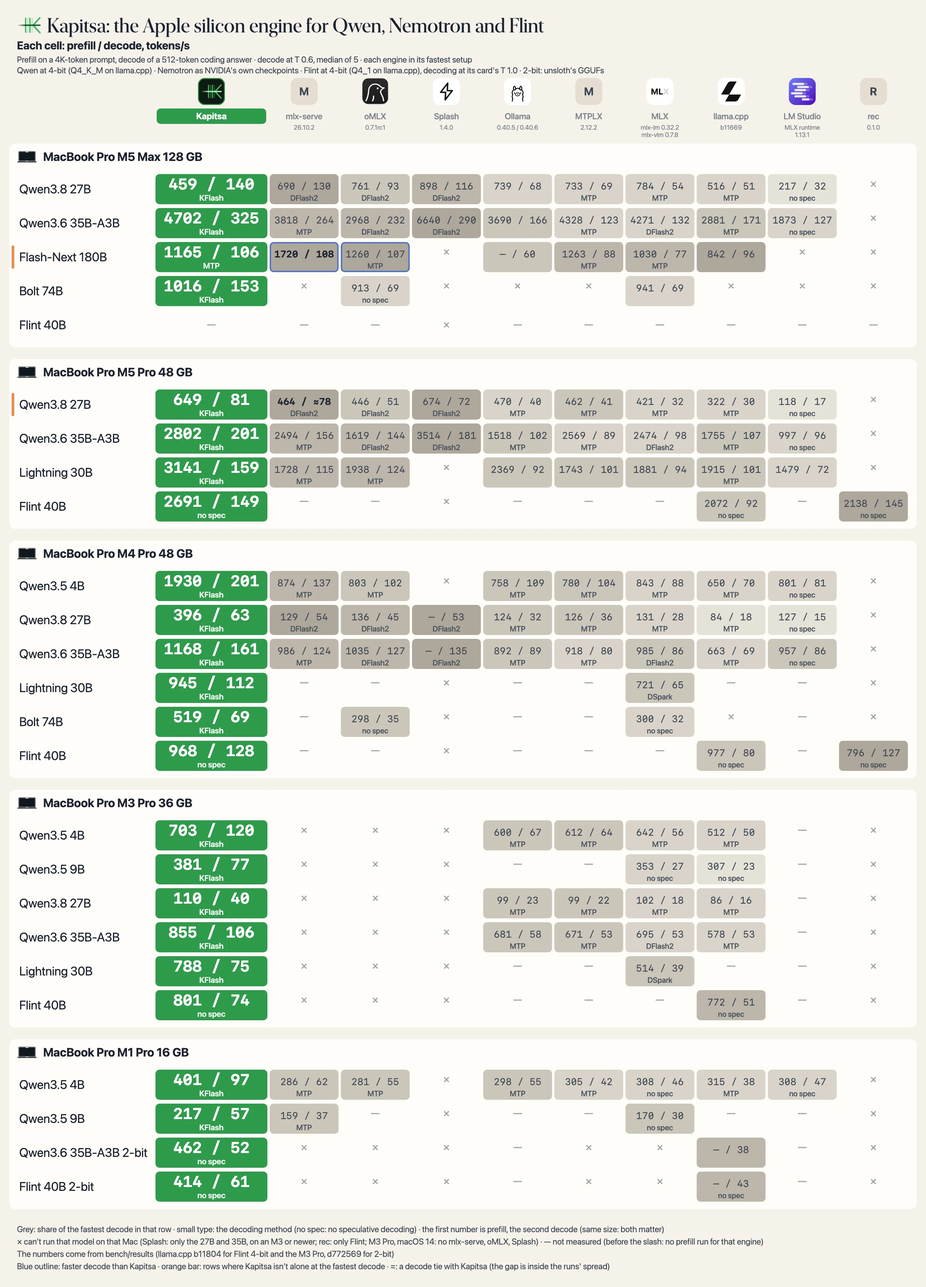
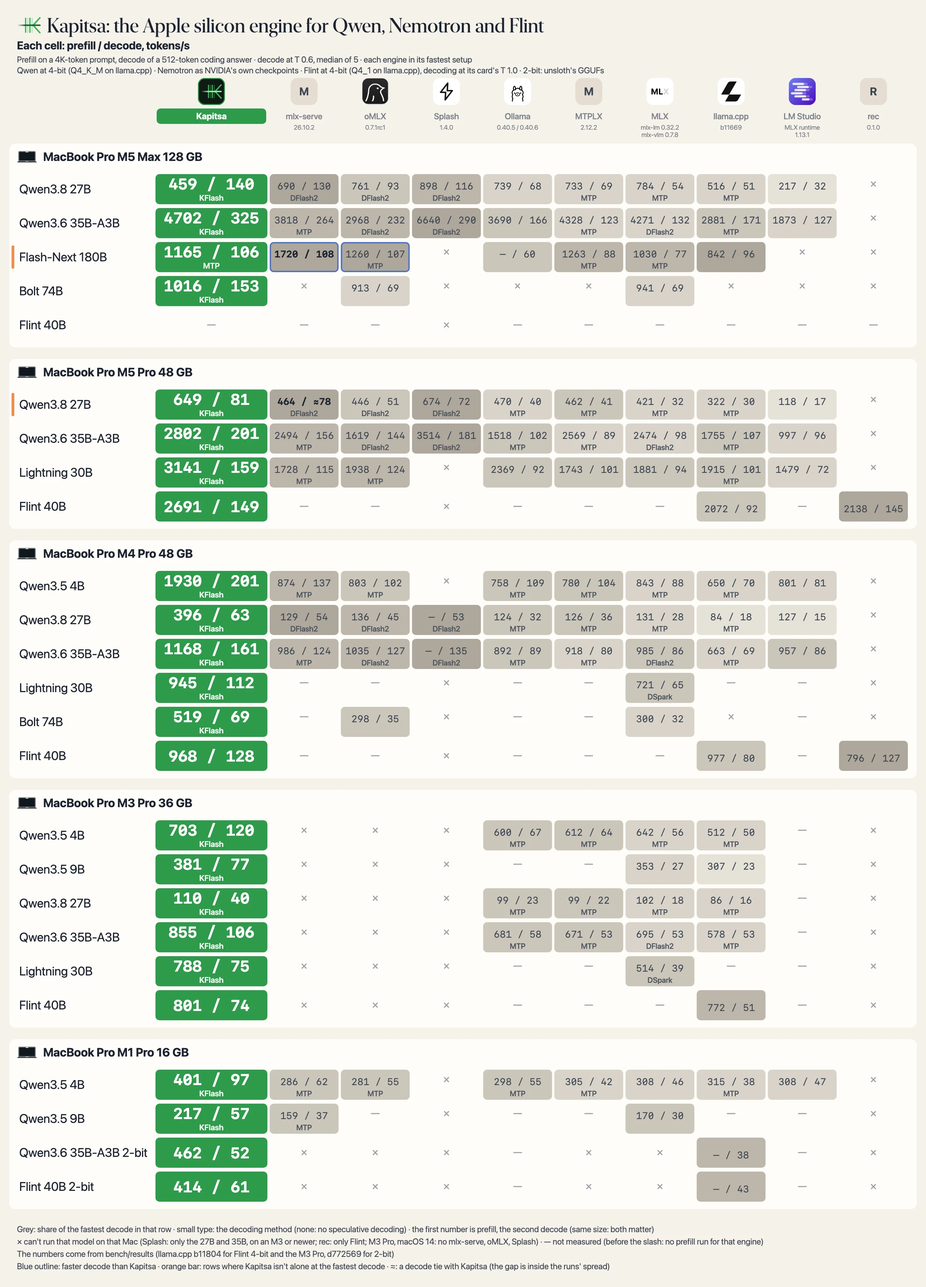
README: no multipliers in What's new (Flint: Kapitsa reads prompts faster than rec and decodes faster than llama.cpp) and no "no spec" label on the poster and tables (#382)
* README What's new: Flint bullet without multipliers, only the wins every stored run backs

* README: no multipliers in What's new (16 GB Flint: 61 vs llama.cpp's 43 tok/s); poster and tables draw no method label for plain decoding ("no spec"), on every engine

* README What's new: scope the M5 Pro Flint prefill claim to #345's two runs (earlier builds read slower; both flagged)

diff --git a/tools/readme_images/readme_images.py b/tools/readme_images/readme_images.py
@@ -30,14 +30,19 @@ def fmt(v):
     return str(round(v)) if isinstance(v, (int, float)) else DASH
 
 
+NO_SPEC = "no spec"        # the record's method for plain decoding: shown as no label at all, on every engine
+
+
 def cell(row, engine):
-    """(value, method, raw) of one cell: value is a number, None (a dash) or "x" (can't run)"""
+    """(value, method, raw) of one cell: value is a number, None (a dash) or "x" (can't run); method is None for plain
+    decoding (no speculative decoding), so a label only ever names a real method"""
     c = row["cells"].get(engine)
     if c is None or c == "x":
         return c, None, c
     if isinstance(c, (int, float)):
         return c, None, c
-    return c.get("value"), c.get("method"), c
+    m = c.get("method")
+    return c.get("value"), None if m == NO_SPEC else m, c
 
 
 def is_num(v):
@@ -142,7 +147,7 @@ def tables(data):
     (tables.families) that has a row on that Mac, under the family's name when there are two or more"""
     T = data["tables"]
     out = [LEGEND + " (a lone number is decode: no prefill run) · 🟩 fastest decode · ≈ a decode tie with Kapitsa · "
-           "small type: the decoding method · × can't run on that Mac · — not measured</sub>"]
+           "small type: the decoding method (none: no speculative decoding) · × can't run on that Mac · — not measured</sub>"]
     for tmac in T["macs"]:
         rows = table_rows(data, tmac)
         groups = [(f["name"], [r for r in rows if r["model"] in f["models"]]) for f in T["families"]]

diff --git a/README.md b/README.md
@@ -10,8 +10,8 @@ Kapitsa is an inference engine for Apple silicon that runs Qwen, Nemotron and Re
 
 ## 🔥 What's new
 
-- [2026/10] 🪶 **Flint on a 16 GB Mac: 1.4× llama.cpp's decode on the same 2-bit GGUF.** `--model flint` takes unsloth's 2-bit GGUF on 16-24 GB Macs: its routed experts run as stored, the rest requantized to 3-6 bits. 61 tok/s decode on an M1 Pro, in 11.6 GB ([numbers](docs/benchmarks.md#recursive-flint-40b-a25b-with-2-bit-experts-m1-pro-16-gb-2026-10-22)).
-- [2026/10] 🪨 **Recursive's Flint 40B-A2.5B: on the M4 Pro, 1.1-1.2× the prompt speed of Recursive's own engine.** Decode is level with it on short prompts and pulls ahead as the context grows, to 1.3× at 128K tokens, and 1.6-1.9× llama.cpp's ([numbers](docs/benchmarks.md#recursive-flint-40b-a25b-m4-pro-2026-10-22)).
+- [2026/10] 🪶 **Flint on a 16 GB Mac: decodes at 61 tok/s vs llama.cpp's 43 on the same 2-bit GGUF.** `--model flint` takes unsloth's 2-bit GGUF on 16-24 GB Macs: its routed experts run as stored, the rest requantized to 3-6 bits. 61 tok/s decode on an M1 Pro, in 11.6 GB ([numbers](docs/benchmarks.md#recursive-flint-40b-a25b-with-2-bit-experts-m1-pro-16-gb-2026-10-22)).
+- [2026/10] 🪨 **Recursive's Flint 40B-A2.5B: Kapitsa reads prompts faster than Recursive's own engine and decodes faster than llama.cpp.** On the M4 Pro every Kapitsa run read 4K and 16K prompts faster than every run of rec 0.1.0. On the M5 Pro, since Flint's attention moved to the tensor units (#345), both runs read 4K and 16K prompts faster than rec's and llama.cpp's; earlier builds read slower, and both runs carry harness flags. On both Macs every Kapitsa run decodes faster than llama.cpp ([M4 Pro](docs/benchmarks.md#recursive-flint-40b-a25b-m4-pro-2026-10-22), [M5 Pro](docs/benchmarks.md#recursive-flint-40b-a25b-m5-pro-2026-10-22)).
 - [2026/10] 🚀 **KFlash: tree speculative decoding, up to 3.5× llama.cpp and 2.2× oMLX.** One verify pass checks a whole tree of the drafter's guesses ([how it works](docs/kflash.md)).
 - [2026/10] 🏆 **Kapitsa: the fastest decode in 32 of 36 model and Mac pairs** against nine engines, up to 2.9× MLX ([poster](#benchmarks)).
 - [2026/10] 🤝 **KFlash budget: subagents decode together.** Three requests at once share one verify pass, up to **+23% total throughput** on the 27B.
@@ -71,19 +71,19 @@ The poster's numbers, and the models it leaves out, are in each Mac's table unde
 
 The catalog models measured on each Mac, against the engines that run them: one collapsed section per Mac, with a table for each model family. Decode is a 512-token coding answer at T 0.6 (Flint at its card's T 1.0), prefill a 4K-token prompt. Under each model's name are the weights Kapitsa ran; the other engines' weights and how each number was measured are in [docs/benchmarks.md](docs/benchmarks.md#the-readmes-tables).
 
-<sub>Each cell: prefill / decode, tokens/s (a lone number is decode: no prefill run) · 🟩 fastest decode · ≈ a decode tie with Kapitsa · small type: the decoding method · × can't run on that Mac · — not measured</sub>
+<sub>Each cell: prefill / decode, tokens/s (a lone number is decode: no prefill run) · 🟩 fastest decode · ≈ a decode tie with Kapitsa · small type: the decoding method (none: no speculative decoding) · × can't run on that Mac · — not measured</sub>
 
 <details>
 <summary><b>MacBook Pro (16-inch, 2026) · M5 Max · 128 GB</b> · 7 models</summary>
 
 | Model | <mark>**Kapitsa**</mark> | <sub>mlx‑serve<br>26.10.2</sub> | <sub>oMLX<br>0.7.1rc1</sub> | <sub>Splash<br>1.4.0</sub> | <sub>Ollama<br>0.40.5 / 0.40.6</sub> | <sub>MTPLX<br>2.12.2</sub> | <sub>MLX<br>mlx-lm 0.32.2, mlx-vlm 0.7.8</sub> | <sub>llama.cpp<br>b11669</sub> | <sub>LM&nbsp;Studio<br>MLX runtime 1.13.1, llama.cpp runtime 2.60.0</sub> |
 | --- | ---: | ---: | ---: | ---: | ---: | ---: | ---: | ---: | ---: |
-| **Qwen3.8-27B** · `27b`<br><sub>dense · 4-bit, 20.2 GB</sub> | 🟩 459 / **140**<br><sub>KFlash</sub> | 690 / 130<br><sub>DFlash2</sub> | 761 / 93<br><sub>DFlash2</sub> | 898 / 116<br><sub>DFlash2</sub> | 739 / 68 | 733 / 69<br><sub>MTP</sub> | 784 / 54<br><sub>MTP</sub> | 516 / 51<br><sub>MTP</sub> | 217 / 32<br><sub>no spec</sub> |
-| **Qwen3.6-35B-A3B** · `35b`<br><sub>MoE, 3B active · 4-bit, 22.1 GB</sub> | 🟩 4702 / **325**<br><sub>KFlash</sub> | 3818 / 264<br><sub>MTP</sub> | 2968 / 232<br><sub>DFlash2</sub> | 6640 / 290<br><sub>DFlash2</sub> | 3690 / 166 | 4328 / 123<br><sub>MTP</sub> | 4271 / 132<br><sub>DFlash2</sub> | 2881 / 171<br><sub>MTP</sub> | 1873 / 127<br><sub>no spec</sub> |
+| **Qwen3.8-27B** · `27b`<br><sub>dense · 4-bit, 20.2 GB</sub> | 🟩 459 / **140**<br><sub>KFlash</sub> | 690 / 130<br><sub>DFlash2</sub> | 761 / 93<br><sub>DFlash2</sub> | 898 / 116<br><sub>DFlash2</sub> | 739 / 68 | 733 / 69<br><sub>MTP</sub> | 784 / 54<br><sub>MTP</sub> | 516 / 51<br><sub>MTP</sub> | 217 / 32 |
+| **Qwen3.6-35B-A3B** · `35b`<br><sub>MoE, 3B active · 4-bit, 22.1 GB</sub> | 🟩 4702 / **325**<br><sub>KFlash</sub> | 3818 / 264<br><sub>MTP</sub> | 2968 / 232<br><sub>DFlash2</sub> | 6640 / 290<br><sub>DFlash2</sub> | 3690 / 166 | 4328 / 123<br><sub>MTP</sub> | 4271 / 132<br><sub>DFlash2</sub> | 2881 / 171<br><sub>MTP</sub> | 1873 / 127 |
 | **Qwen3.8-Flash-Next 180B-A7B** · `flash-next`<br><sub>MoE, 7B active · 4-bit, 105.9 GB</sub> | 1165 / 106<br><sub>MTP</sub> | 🟩 1720 / **108** | 1260 / 107<br><sub>MTP</sub> | × | 60 | 1263 / 88<br><sub>MTP</sub> | 1030 / 77<br><sub>MTP</sub> | 842 / 96 | × |
 | **Nemotron Dory1.0 4B** · `dory`<br><sub>looped dense · NVFP4, 3.2 GB</sub> | 🟩 **119**<br><sub>loops</sub> | × | × | × | × | × | 76 | 9 | × |
 | **Nemotron 3.5 Lightning 30B-A3B** · `lightning`<br><sub>hybrid MoE, 3B active · NVFP4, 22.9 GB</sub> | 🟩 **267**<br><sub>KFlash</sub> | 190 | 190 | × | 153 | 131 | 139 | 159 | 110 |
-| **Nemotron 3.5 Bolt 74B-A9B** · `bolt`<br><sub>hybrid MoE, 9B active · 2/4/8-bit mix, 25.1 GB</sub> | 🟩 1016 / **153**<br><sub>KFlash</sub> | × | 913 / 69<br><sub>no spec</sub> | × | × | × | 941 / 69 | × | × |
+| **Nemotron 3.5 Bolt 74B-A9B** · `bolt`<br><sub>hybrid MoE, 9B active · 2/4/8-bit mix, 25.1 GB</sub> | 🟩 1016 / **153**<br><sub>KFlash</sub> | × | 913 / 69 | × | × | × | 941 / 69 | × | × |
 | **Nemotron 3.5 Super-VL 120B-A12B** · `super`<br><sub>hybrid MoE, 12B active · NVFP4, 76.4 GB</sub> | 🟩 **94**<br><sub>KFlash</sub> | × | 52 | × | 64 | 44 | 46 | 66 | 61 |
 
 </details>
@@ -95,17 +95,17 @@ The catalog models measured on each Mac, against the engines that run them: one 
 
 | Model | <mark>**Kapitsa**</mark> | <sub>mlx‑serve<br>26.10.2</sub> | <sub>oMLX<br>0.7.1rc1</sub> | <sub>Splash<br>1.4.0</sub> | <sub>Ollama<br>0.40.5 / 0.40.6</sub> | <sub>MTPLX<br>2.12.2</sub> | <sub>MLX<br>mlx-lm 0.32.2, mlx-vlm 0.7.8</sub> | <sub>llama.cpp<br>b11669</sub> | <sub>LM&nbsp;Studio<br>MLX runtime 1.13.1, llama.cpp runtime 2.60.0</sub> |
 | --- | ---: | ---: | ---: | ---: | ---: | ---: | ---: | ---: | ---: |
-| **Qwen3.8-27B** · `27b`<br><sub>dense · 4-bit, 20.2 GB</sub> | 🟩 649 / **81**<br><sub>KFlash</sub> | 464 / **≈78**<br><sub>DFlash2</sub> | 446 / 51<br><sub>DFlash2</sub> | 674 / 72<br><sub>DFlash2</sub> | 470 / 40<br><sub>MTP</sub> | 462 / 41<br><sub>MTP</sub> | 421 / 32<br><sub>MTP</sub> | 322 / 30<br><sub>MTP</sub> | 118 / 17<br><sub>no spec</sub> |
-| **Qwen3.6-35B-A3B** · `35b`<br><sub>MoE, 3B active · 4-bit, 22.1 GB</sub> | 🟩 2802 / **201**<br><sub>KFlash</sub> | 2494 / 156<br><sub>MTP</sub> | 1619 / 144<br><sub>DFlash2</sub> | 3514 / 181<br><sub>DFlash2</sub> | 1518 / 102<br><sub>MTP</sub> | 2569 / 89<br><sub>MTP</sub> | 2474 / 98<br><sub>DFlash2</sub> | 1755 / 107<br><sub>MTP</sub> | 997 / 96<br><sub>no spec</sub> |
+| **Qwen3.8-27B** · `27b`<br><sub>dense · 4-bit, 20.2 GB</sub> | 🟩 649 / **81**<br><sub>KFlash</sub> | 464 / **≈78**<br><sub>DFlash2</sub> | 446 / 51<br><sub>DFlash2</sub> | 674 / 72<br><sub>DFlash2</sub> | 470 / 40<br><sub>MTP</sub> | 462 / 41<br><sub>MTP</sub> | 421 / 32<br><sub>MTP</sub> | 322 / 30<br><sub>MTP</sub> | 118 / 17 |
+| **Qwen3.6-35B-A3B** · `35b`<br><sub>MoE, 3B active · 4-bit, 22.1 GB</sub> | 🟩 2802 / **201**<br><sub>KFlash</sub> | 2494 / 156<br><sub>MTP</sub> | 1619 / 144<br><sub>DFlash2</sub> | 3514 / 181<br><sub>DFlash2</sub> | 1518 / 102<br><sub>MTP</sub> | 2569 / 89<br><sub>MTP</sub> | 2474 / 98<br><sub>DFlash2</sub> | 1755 / 107<br><sub>MTP</sub> | 997 / 96 |
 | **Nemotron Dory1.0 4B** · `dory`<br><sub>looped dense · NVFP4, 3.2 GB</sub> | 🟩 **70**<br><sub>loops</sub> | × | × | × | × | × | 53 | 13 | × |
 | **Nemotron 3.5 Lightning 30B-A3B** · `lightning`<br><sub>hybrid MoE, 3B active · NVFP4, 22.9 GB</sub> | 🟩 3141 / **159**<br><sub>KFlash</sub> | 1728 / 115<br><sub>MTP</sub> | 1938 / 124<br><sub>MTP</sub> | × | 2369 / 92 | 1743 / 101 | 1881 / 94 | 1915 / 101<br><sub>MTP</sub> | 1479 / 72 |
-| **Nemotron 3.5 Bolt 74B-A9B** · `bolt`<br><sub>hybrid MoE, 9B active · 2/4/8-bit mix, 25.1 GB</sub> | 🟩 **79**<br><sub>LiLiCorr</sub> | × | 39<br><sub>no spec</sub> | × | × | × | 41 | × | × |
+| **Nemotron 3.5 Bolt 74B-A9B** · `bolt`<br><sub>hybrid MoE, 9B active · 2/4/8-bit mix, 25.1 GB</sub> | 🟩 **79**<br><sub>LiLiCorr</sub> | × | 39 | × | × | × | 41 | × | × |
 
 **Recursive Flint**
 
 | Model | <mark>**Kapitsa**</mark> | <sub>llama.cpp<br>b11804</sub> | <sub>rec<br>0.1.0</sub> |
 | --- | ---: | ---: | ---: |
-| **Recursive Flint 40B-A2.5B** · `flint`<br><sub>MoE, 2.5B active · 4-bit, 22.6 GB</sub> | 🟩 2691 / **149**<br><sub>no spec</sub> | 2072 / 92<br><sub>no spec</sub> | 2138 / 145<br><sub>no spec</sub> |
+| **Recursive Flint 40B-A2.5B** · `flint`<br><sub>MoE, 2.5B active · 4-bit, 22.6 GB</sub> | 🟩 2691 / **149** | 2072 / 92 | 2138 / 145 |
 
 </details>
 
@@ -116,18 +116,18 @@ The catalog models measured on each Mac, against the engines that run them: one 
 
 | Model | <mark>**Kapitsa**</mark> | <sub>mlx‑serve<br>26.10.2</sub> | <sub>oMLX<br>0.7.1rc1</sub> | <sub>Splash<br>1.4.0</sub> | <sub>Ollama<br>0.40.5 / 0.40.6</sub> | <sub>MTPLX<br>2.12.2</sub> | <sub>MLX<br>mlx-lm 0.32.2, mlx-vlm 0.7.8</sub> | <sub>llama.cpp<br>b11669</sub> | <sub>LM&nbsp;Studio<br>MLX runtime 1.13.1, llama.cpp runtime 2.60.0</sub> |
 | --- | ---: | ---: | ---: | ---: | ---: | ---: | ---: | ---: | ---: |
-| **Qwen3.5-4B** · `4b`<br><sub>dense · 4-bit, 4.6 GB</sub> | 🟩 1930 / **201**<br><sub>KFlash</sub> | 874 / 137<br><sub>MTP</sub> | 803 / 102<br><sub>MTP</sub> | × | 758 / 109<br><sub>MTP</sub> | 780 / 104<br><sub>MTP</sub> | 843 / 88<br><sub>MTP</sub> | 650 / 70<br><sub>MTP</sub> | 801 / 81<br><sub>no spec</sub> |
-| **Qwen3.8-27B** · `27b`<br><sub>dense · 4-bit, 20.2 GB</sub> | 🟩 396 / **63**<br><sub>KFlash</sub> | 129 / 54<br><sub>DFlash2</sub> | 136 / 45<br><sub>DFlash2</sub> | 53<br><sub>DFlash2</sub> | 124 / 32<br><sub>MTP</sub> | 126 / 36<br><sub>MTP</sub> | 131 / 28<br><sub>MTP</sub> | 84 / 18<br><sub>MTP</sub> | 127 / 15<br><sub>no spec</sub> |
-| **Qwen3.6-35B-A3B** · `35b`<br><sub>MoE, 3B active · 4-bit, 22.1 GB</sub> | 🟩 1168 / **161**<br><sub>KFlash</sub> | 986 / 124<br><sub>MTP</sub> | 1035 / 127<br><sub>DFlash2</sub> | 135<br><sub>DFlash2</sub> | 892 / 89<br><sub>MTP</sub> | 918 / 80<br><sub>MTP</sub> | 985 / 86<br><sub>DFlash2</sub> | 663 / 69<br><sub>MTP</sub> | 957 / 86<br><sub>no spec</sub> |
-| **Nemotron Dory1.0 4B** · `dory`<br><sub>looped dense · NVFP4, 3.2 GB</sub> | 🟩 **64**<br><sub>loops</sub> | × | × | × | × | × | 48<br><sub>no spec</sub> | 6<br><sub>no spec</sub> | × |
+| **Qwen3.5-4B** · `4b`<br><sub>dense · 4-bit, 4.6 GB</sub> | 🟩 1930 / **201**<br><sub>KFlash</sub> | 874 / 137<br><sub>MTP</sub> | 803 / 102<br><sub>MTP</sub> | × | 758 / 109<br><sub>MTP</sub> | 780 / 104<br><sub>MTP</sub> | 843 / 88<br><sub>MTP</sub> | 650 / 70<br><sub>MTP</sub> | 801 / 81 |
+| **Qwen3.8-27B** · `27b`<br><sub>dense · 4-bit, 20.2 GB</sub> | 🟩 396 / **63**<br><sub>KFlash</sub> | 129 / 54<br><sub>DFlash2</sub> | 136 / 45<br><sub>DFlash2</sub> | 53<br><sub>DFlash2</sub> | 124 / 32<br><sub>MTP</sub> | 126 / 36<br><sub>MTP</sub> | 131 / 28<br><sub>MTP</sub> | 84 / 18<br><sub>MTP</sub> | 127 / 15 |
+| **Qwen3.6-35B-A3B** · `35b`<br><sub>MoE, 3B active · 4-bit, 22.1 GB</sub> | 🟩 1168 / **161**<br><sub>KFlash</sub> | 986 / 124<br><sub>MTP</sub> | 1035 / 127<br><sub>DFlash2</sub> | 135<br><sub>DFlash2</sub> | 892 / 89<br><sub>MTP</sub> | 918 / 80<br><sub>MTP</sub> | 985 / 86<br><sub>DFlash2</sub> | 663 / 69<br><sub>MTP</sub> | 957 / 86 |
+| **Nemotron Dory1.0 4B** · `dory`<br><sub>looped dense · NVFP4, 3.2 GB</sub> | 🟩 **64**<br><sub>loops</sub> | × | × | × | × | × | 48 | 6 | × |
 | **Nemotron 3.5 Lightning 30B-A3B** · `lightning`<br><sub>hybrid MoE, 3B active · NVFP4, 22.9 GB</sub> | 🟩 945 / **112**<br><sub>KFlash</sub> | — | — | × | — | — | 721 / 65<br><sub>DSpark</sub> | — | — |
-| **Nemotron 3.5 Bolt 74B-A9B** · `bolt`<br><sub>hybrid MoE, 9B active · 2/4/8-bit mix, 25.1 GB</sub> | 🟩 519 / **69**<br><sub>KFlash</sub> | — | 298 / 35<br><sub>no spec</sub> | × | — | — | 300 / 32<br><sub>no spec</sub> | × | — |
+| **Nemotron 3.5 Bolt 74B-A9B** · `bolt`<br><sub>hybrid MoE, 9B active · 2/4/8-bit mix, 25.1 GB</sub> | 🟩 519 / **69**<br><sub>KFlash</sub> | — | 298 / 35 | × | — | — | 300 / 32 | × | — |
 
 **Recursive Flint**
 
 | Model | <mark>**Kapitsa**</mark> | <sub>llama.cpp<br>b11804</sub> | <sub>rec<br>0.1.0</sub> |
 | --- | ---: | ---: | ---: |
-| **Recursive Flint 40B-A2.5B** · `flint`<br><sub>MoE, 2.5B active · 4-bit, 22.6 GB</sub> | 🟩 968 / **128**<br><sub>no spec</sub> | 977 / 80<br><sub>no spec</sub> | 796 / 127<br><sub>no spec</sub> |
+| **Recursive Flint 40B-A2.5B** · `flint`<br><sub>MoE, 2.5B active · 4-bit, 22.6 GB</sub> | 🟩 968 / **128** | 977 / 80 | 796 / 127 |
 
 </details>
 
@@ -139,12 +139,12 @@ The catalog models measured on each Mac, against the engines that run them: one 
 | Model | <mark>**Kapitsa**</mark> | <sub>Ollama<br>0.40.8</sub> | <sub>MTPLX<br>2.12.2</sub> | <sub>MLX<br>mlx-lm 0.32.2, mlx-vlm 0.7.8</sub> | <sub>llama.cpp<br>b11669</sub> |
 | --- | ---: | ---: | ---: | ---: | ---: |
 | **Qwen3.5-4B** · `4b`<br><sub>dense · 4-bit, 4.6 GB</sub> | 🟩 703 / **120**<br><sub>KFlash</sub> | 600 / 67<br><sub>MTP</sub> | 612 / 64<br><sub>MTP</sub> | 642 / 56<br><sub>MTP</sub> | 512 / 50<br><sub>MTP · b11804</sub> |
-| **Qwen3.5-9B** · `9b`<br><sub>dense · 4-bit, 9.0 GB</sub> | 🟩 381 / **77**<br><sub>KFlash</sub> | — | — | 353 / 27<br><sub>no spec</sub> | 307 / 23<br><sub>no spec · b11804</sub> |
+| **Qwen3.5-9B** · `9b`<br><sub>dense · 4-bit, 9.0 GB</sub> | 🟩 381 / **77**<br><sub>KFlash</sub> | — | — | 353 / 27 | 307 / 23<br><sub>b11804</sub> |
 | **Qwen3.8-27B** · `27b`<br><sub>dense · 4-bit, 20.2 GB</sub> | 🟩 110 / **40**<br><sub>KFlash</sub> | 99 / 23<br><sub>MTP</sub> | 99 / 22<br><sub>MTP</sub> | 102 / 18<br><sub>MTP</sub> | 86 / 16<br><sub>MTP · b11804</sub> |
 | **Qwen3.6-35B-A3B** · `35b`<br><sub>MoE, 3B active · 4-bit, 22.1 GB</sub> | 🟩 855 / **106**<br><sub>KFlash</sub> | 681 / 58<br><sub>MTP</sub> | 671 / 53<br><sub>MTP</sub> | 695 / 53<br><sub>DFlash2</sub> | 578 / 53<br><sub>MTP · b11804</sub> |
-| **Nemotron Dory1.0 4B** · `dory`<br><sub>looped dense · NVFP4, 3.2 GB</sub> | 🟩 450 / **36**<br><sub>no spec</sub> | × | × | 344 / 30<br><sub>no spec</sub> | — |
-| **Nemotron 3 Nano 4B** · `nano-4b`<br><sub>hybrid Mamba-2 · FP8, 5.3 GB</sub> | 765 / 34<br><sub>prompt lookup</sub> | — | — | — | 🟩 413 / **35**<br><sub>no spec · Q4_K_M, b11804</sub> |
-| **Nemotron Nano 9B v2** · `nano-9b`<br><sub>hybrid Mamba-2 · NVFP4, 7.9 GB</sub> | 330 / 21<br><sub>no spec</sub> | — | — | 🟩 **25**<br><sub>no spec · 4-bit</sub> | — |
+| **Nemotron Dory1.0 4B** · `dory`<br><sub>looped dense · NVFP4, 3.2 GB</sub> | 🟩 450 / **36** | × | × | 344 / 30 | — |
+| **Nemotron 3 Nano 4B** · `nano-4b`<br><sub>hybrid Mamba-2 · FP8, 5.3 GB</sub> | 765 / 34<br><sub>prompt lookup</sub> | — | — | — | 🟩 413 / **35**<br><sub>Q4_K_M, b11804</sub> |
+| **Nemotron Nano 9B v2** · `nano-9b`<br><sub>hybrid Mamba-2 · NVFP4, 7.9 GB</sub> | 330 / 21 | — | — | 🟩 **25**<br><sub>4-bit</sub> | — |
 | **Nemotron 3.5 Lightning 30B-A3B** · `lightning`<br><sub>hybrid MoE, 3B active · NVFP4, 22.9 GB</sub> | 🟩 788 / **75**<br><sub>KFlash</sub> | — | — | 514 / 39<br><sub>DSpark</sub> | — |
 | **Nemotron 3.5 Bolt 74B-A9B** · `bolt`<br><sub>hybrid MoE, 9B active · 2/4/8-bit mix, 25.1 GB</sub> | 🟩 256 / **50**<br><sub>LiLiCorr</sub> | — | — | — | — |
 
@@ -152,7 +152,7 @@ The catalog models measured on each Mac, against the engines that run them: one 
 
 | Model | <mark>**Kapitsa**</mark> | <sub>llama.cpp<br>b11804</sub> |
 | --- | ---: | ---: |
-| **Recursive Flint 40B-A2.5B** · `flint`<br><sub>MoE, 2.5B active · 4-bit, 22.6 GB</sub> | 🟩 801 / **74**<br><sub>no spec</sub> | 772 / 51<br><sub>no spec</sub> |
+| **Recursive Flint 40B-A2.5B** · `flint`<br><sub>MoE, 2.5B active · 4-bit, 22.6 GB</sub> | 🟩 801 / **74** | 772 / 51 |
 
 <sub>macOS 14.1, on AC power: Kapitsa's macOS 14 kernels (macOS 15 and later run fused ones). mlx-serve, oMLX and Splash need a newer macOS (×); LM Studio was not installed; rec 0.1.0 refuses this Mac: it requires 48 GiB. Each cell but Flint's is one run of the M4 Pro's protocol (Flint's is the mean of two runs, #341), the other engines in the M4 Pro's setup (not re-tuned here). Nano 4B and 9B v2: Kapitsa runs NVIDIA's published checkpoints, which keep some layers in BF16/FP8, so it reads more per token than the 4-bit files: the 4B's FP8 is ~1 byte per weight against Q4_K_M's ~0.6, the 9B's NVFP4 ~6.11 GB per token against 4.67 GB for mlx-lm's 4-bit. Nano 9B v2 on mlx-lm: no prefill shown, because its template ignores enable_thinking and the timed first token is a thinking token.</sub>
 
@@ -165,18 +165,18 @@ The catalog models measured on each Mac, against the engines that run them: one 
 
 | Model | <mark>**Kapitsa**</mark> | <sub>mlx‑serve<br>26.10.2</sub> | <sub>oMLX<br>0.7.1rc1</sub> | <sub>Ollama<br>0.40.5 / 0.40.6</sub> | <sub>MTPLX<br>2.12.2</sub> | <sub>MLX<br>mlx-lm 0.32.2, mlx-vlm 0.7.8</sub> | <sub>llama.cpp<br>b11669</sub> | <sub>LM&nbsp;Studio<br>MLX runtime 1.13.1, llama.cpp runtime 2.60.0</sub> |
 | --- | ---: | ---: | ---: | ---: | ---: | ---: | ---: | ---: |
-| **Qwen3.5-4B** · `4b`<br><sub>dense · 4-bit, 4.6 GB</sub> | 🟩 401 / **97**<br><sub>KFlash</sub> | 286 / 62<br><sub>MTP</sub> | 281 / 55<br><sub>MTP</sub> | 298 / 55<br><sub>MTP</sub> | 305 / 42<br><sub>MTP</sub> | 308 / 46<br><sub>no spec</sub> | 315 / 38<br><sub>MTP</sub> | 308 / 47<br><sub>no spec</sub> |
-| **Qwen3.5-9B** · `9b`<br><sub>dense · 4-bit, 9.0 GB</sub> | 🟩 217 / **57**<br><sub>KFlash</sub> | 159 / 37<br><sub>MTP</sub> | — | — | — | 170 / 30<br><sub>no spec</sub> | — | — |
-| **Qwen3.6-35B-A3B** · `35b:16gb`<br><sub>MoE, 3B active · 2-bit experts (unsloth's GGUF), 10.8 GB</sub> | 🟩 462 / **52**<br><sub>no spec</sub> | × | × | — | × | × | 38 | — |
-| **Nemotron Dory1.0 4B** · `dory`<br><sub>looped dense · NVFP4, 3.2 GB</sub> | 🟩 **39**<br><sub>no spec</sub> | × | × | × | × | 30<br><sub>no spec</sub> | 4<br><sub>no spec</sub> | × |
+| **Qwen3.5-4B** · `4b`<br><sub>dense · 4-bit, 4.6 GB</sub> | 🟩 401 / **97**<br><sub>KFlash</sub> | 286 / 62<br><sub>MTP</sub> | 281 / 55<br><sub>MTP</sub> | 298 / 55<br><sub>MTP</sub> | 305 / 42<br><sub>MTP</sub> | 308 / 46 | 315 / 38<br><sub>MTP</sub> | 308 / 47 |
+| **Qwen3.5-9B** · `9b`<br><sub>dense · 4-bit, 9.0 GB</sub> | 🟩 217 / **57**<br><sub>KFlash</sub> | 159 / 37<br><sub>MTP</sub> | — | — | — | 170 / 30 | — | — |
+| **Qwen3.6-35B-A3B** · `35b:16gb`<br><sub>MoE, 3B active · 2-bit experts (unsloth's GGUF), 10.8 GB</sub> | 🟩 462 / **52** | × | × | — | × | × | 38 | — |
+| **Nemotron Dory1.0 4B** · `dory`<br><sub>looped dense · NVFP4, 3.2 GB</sub> | 🟩 **39** | × | × | × | × | 30 | 4 | × |
 | **Nemotron 3 Nano 4B** · `nano-4b`<br><sub>hybrid Mamba-2 · FP8, 5.3 GB</sub> | 🟩 **37**<br><sub>prompt lookup</sub> | — | — | — | — | 21<br><sub>BF16</sub> | 28<br><sub>Q4_K_M</sub> | — |
-| **Nemotron Nano 9B v2** · `nano-9b`<br><sub>hybrid Mamba-2 · NVFP4, 7.9 GB</sub> | 🟩 **25**<br><sub>no spec</sub> | — | — | — | — | 18 | 14<br><sub>Q4_K_M</sub> | — |
+| **Nemotron Nano 9B v2** · `nano-9b`<br><sub>hybrid Mamba-2 · NVFP4, 7.9 GB</sub> | 🟩 **25** | — | — | — | — | 18 | 14<br><sub>Q4_K_M</sub> | — |
 
 **Recursive Flint**
 
 | Model | <mark>**Kapitsa**</mark> | <sub>llama.cpp<br>d772569</sub> |
 | --- | ---: | ---: |
-| **Recursive Flint 40B-A2.5B** · `flint:16gb`<br><sub>MoE, 2.5B active · 2-bit experts (unsloth's GGUF), 11.9 GB</sub> | 🟩 414 / **61**<br><sub>no spec</sub> | 43<br><sub>no spec</sub> |
+| **Recursive Flint 40B-A2.5B** · `flint:16gb`<br><sub>MoE, 2.5B active · 2-bit experts (unsloth's GGUF), 11.9 GB</sub> | 🟩 414 / **61** | 43 |
 
 </details>
 

diff --git a/docs/benchmarks.md b/docs/benchmarks.md
@@ -189,7 +189,7 @@ What each cell of the README's poster and its per-Mac tables under Models ran, M
 
 ## How the README poster was measured
 
-Tokens per second, each engine in its fastest setup, its decoding method under each value (no spec: no speculative decoding). Every cell reads prefill / decode: prefill on a 4K-token prompt, decode of a 512-token coding answer. × cannot run that model on that Mac · — not measured (a dash before the slash: no prefill run for that engine). The poster shows the models that differ most per Mac; the README's per-Mac tables under Models, the [details](#the-readmes-tables) and [bench/README.md](../bench/README.md) have every cell.
+Tokens per second, each engine in its fastest setup, its decoding method under each value (none: no speculative decoding). Every cell reads prefill / decode: prefill on a 4K-token prompt, decode of a 512-token coding answer. × cannot run that model on that Mac · — not measured (a dash before the slash: no prefill run for that engine). The poster shows the models that differ most per Mac; the README's per-Mac tables under Models, the [details](#the-readmes-tables) and [bench/README.md](../bench/README.md) have every cell.
 
 Kapitsa's method label is the setup the run used: KFlash (the drafter's best-first tree, on by default since [#187](https://github.com/nace-ai/kapitsa/pull/187)) on the M5 Max, M5 Pro and M4 Pro, whose runs are builds from 2026-10-21 on (b50f1fc, a13f8fd; the M5 Max's fd85910), with the DFlash2, DSpark or LiLiCorr drafter named in each run's config, and on the M1 Pro, whose Kapitsa cells are the 0.2.6 release (`76a4970`) on 2026-10-22 ([details](#macbook-pro-m1-pro-16-gb-kapitsa-026-2026-10-22); its Flint 2-bit row: `2b5ab35`, below); Flash-Next keeps MTP.
 

diff --git a/tools/readme_images/README.md b/tools/readme_images/README.md
@@ -28,7 +28,7 @@ Everything is in `readme_images.json`:
 - **`engines`:** column order (Kapitsa first), logo, tile color, and the version shown under the name. A `\n`
   splits a version onto two lines.
 - **`poster.macs[].rows[].cells`:** one cell per engine. It is one of:
-  - `{"value": tok/s, "method": "KFlash" | "DFlash2" | "MTP" | "no spec" | ...}`; a cell can add
+  - `{"value": tok/s, "method": "KFlash" | "DFlash2" | "MTP" | "no spec" | ...}` (`"no spec"`, plain decoding, draws no method label, on every engine); a cell can add
     `"prefill": tok/s` (a 4K prompt, the same engine's stored run); when any cell has it, every cell reads `prefill / decode` in one size
     (Kapitsa's column is wider), and a cell without it shows a dash before the slash;
   - `null`, drawn as a dash: not measured;
